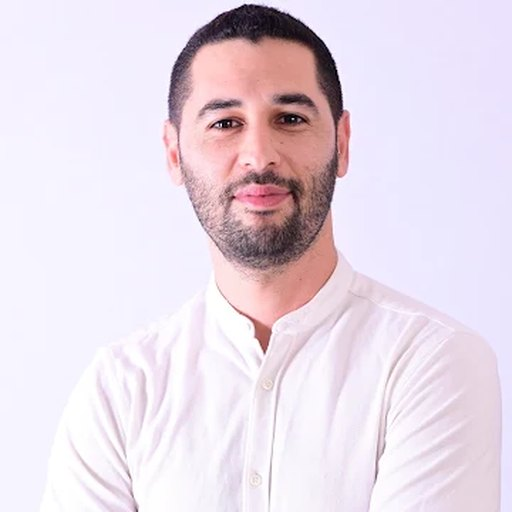
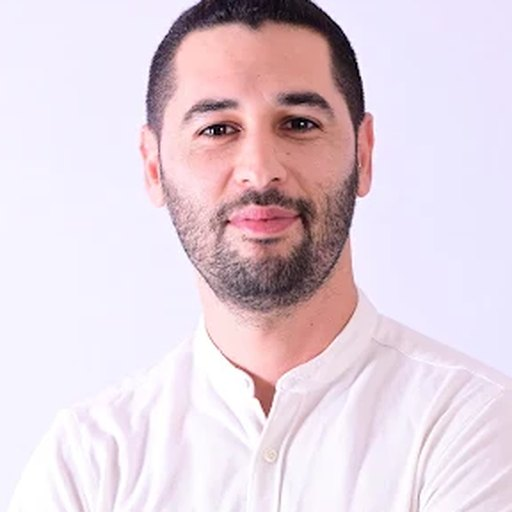
Team: heads centred in the circles, a line about each
Stav's fields in his words — seven years in design, before that panels,
high voltage and site work; Matan — ten years in design, supervision and
project management.

Changed region(s): [[0.25, 0.0, 0.8438, 1.0], [0.0938, 0.6875, 0.375, 1.0], [0.7812, 0.625, 1.0, 1.0]]

diff --git a/about.html b/about.html
@@ -91,6 +91,7 @@
         .team-photo img { width: 100%; height: 100%; object-fit: cover; display: block; }
         .team-name { font-family: var(--font-display); font-weight: 800; font-size: var(--fs-lg); }
         .team-role { color: var(--text-2); font-size: var(--fs-sm); margin-top: 2px; }
+        .team-bio { color: var(--text-2); font-size: var(--fs-sm); line-height: 1.55; margin: var(--space-3) auto 0; max-width: 34ch; }
         .team-more { display: inline-flex; align-items: center; gap: 6px; margin-top: var(--space-4); font-size: var(--fs-sm); color: var(--accent); font-weight: 600; }
         .team-dialog { border: 0; border-radius: var(--r-lg); padding: 0; width: min(560px, calc(100vw - 32px)); background: var(--surface); color: var(--text); box-shadow: var(--shadow-lg); }
         .team-dialog::backdrop { background: var(--scrim); }
@@ -179,12 +180,14 @@
                         <div class="team-photo"><img src="assets/team/stav.jpg" alt="סתיו ג'אן" loading="lazy" decoding="async" width="132" height="132"></div>
                         <div class="team-name">סתיו ג'אן</div>
                         <div class="team-role">מייסד · הנדסת חשמל</div>
+                        <p class="team-bio">שבע שנים בתכנון חשמל. עברתי דרך תכנון וייצור לוחות חשמל, תכנון מתח גבוה וביצוע פרויקטי חשמל בשטח — התוכנית שיוצאת מכאן יודעת איך זה מתחבר בפועל.</p>
                         <span class="team-more">ההסמכות <svg viewBox="0 0 24 24" width="14" height="14" fill="none" stroke="currentColor" stroke-width="2" aria-hidden="true"><path d="M15 18l-6-6 6-6"/></svg></span>
                     </div>
                     <div class="card card-hover team-card rv" role="button" tabindex="0" data-person="matan" aria-haspopup="dialog">
                         <div class="team-photo"><img src="assets/team/matan.jpg" alt="מתן" loading="lazy" decoding="async" width="132" height="132"></div>
                         <div class="team-name">מתן</div>
                         <div class="team-role">חשמלאי הנדסאי</div>
+                        <p class="team-bio">עשר שנים בתכנון, ליווי ופיקוח על פרויקטים.</p>
                         <span class="team-more">ההסמכות <svg viewBox="0 0 24 24" width="14" height="14" fill="none" stroke="currentColor" stroke-width="2" aria-hidden="true"><path d="M15 18l-6-6 6-6"/></svg></span>
                     </div>
                 </div>
